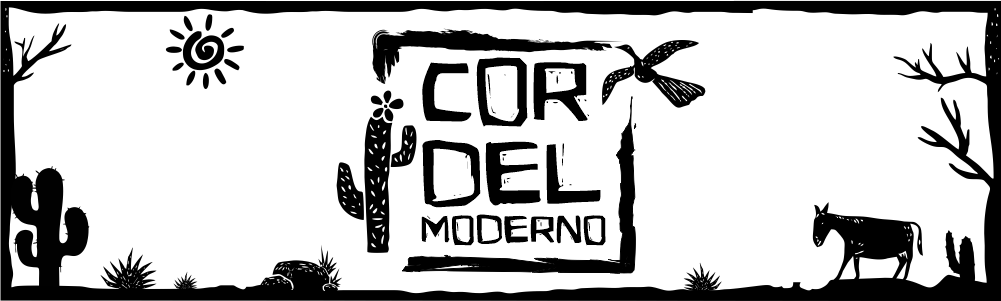
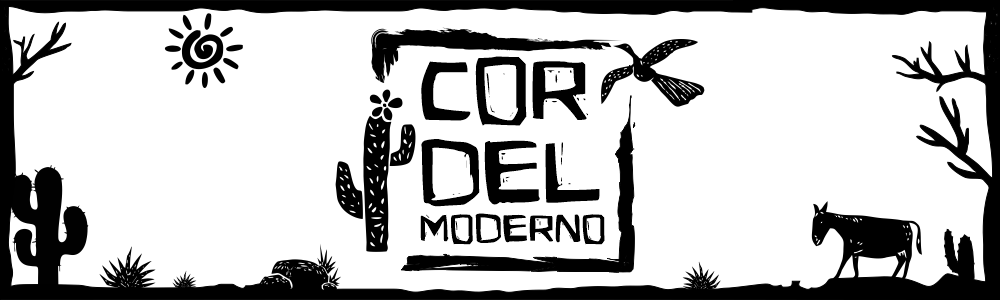
finalizando o projeto d012

diff --git a/desafios/d012/style.css b/desafios/d012/style.css
@@ -18,16 +18,17 @@ html, body {
     min-height: 100vh;
     background-color: dark;
     font-family: var(--font1);
+    font-size: 1em;
 }
 
 header {
-    height: 300px;
+    height: 25vh;
     background-color: black;
     background-image: url(imagens/cordeltopo.png);
-    background-position: center center;
     background-repeat: no-repeat;
-    background-size: content;
-    background-attachment: scroll;
+    background-position: center top;
+    background-size: contain;
+    background-attachment: fixed;
 }
 
 div > p {
@@ -54,9 +55,14 @@ section {
     padding-left: 30px;
     line-height: 2em;
     font-family: var(--font3);
-    font-size: 5vw;
+    font-size: 3.5vw;
     
 }
+
+section >p {
+    padding-bottom: 2em;
+}
+
 section.normal {
     background-color:white;
     color: black;
@@ -66,6 +72,7 @@ section.imagem {
     background-image: url(imagens/background001.jpg);
     background-color:darkgray;
     color: white;
+    box-shadow: inset 6px 6px 13px rgba(0, 0, 0, 0.493);
 }
 
 section.imagem > p {
@@ -75,6 +82,25 @@ section.imagem > p {
    background: rgba(255, 255, 255, 0.1);
    backdrop-filter: blur(10px);
    -webkit-backdrop-filter: blur(10px);
+   text-shadow: 1px 1px 0px black;
+   box-shadow: 2px 4px 2px rgba(0, 0, 0, 0.336);
+}
+section#img01 {
+    background-color: black;
+    background-image: url(imagens/background001.jpg);
+    background-position: right center;
+    background-repeat: no-repeat;
+    background-size: cover;
+    background-attachment: fixed;
+}
+
+section#img02 {
+    background-color: black;
+    background-image: url(imagens/background002.jpg);
+    background-position: center center;
+    background-repeat: no-repeat;
+    background-size: cover;
+    background-attachment: fixed;
 }
 
 footer {

diff --git a/desafios/d012/index.html b/desafios/d012/index.html
@@ -29,7 +29,7 @@
         </p>
     </section>
 
-    <section class="imagem">
+    <section class="imagem" id="img01">
         <p>
             Não é mais como era antes <br>
             É tudo abreviado <br>
@@ -63,7 +63,7 @@
         </p>
     </section>
 
-    <section class="imagem">
+    <section class="imagem" id="img02">
         <p>
             Tenho saudade das cartas <br>
             Escritas com a própria mão <br>
